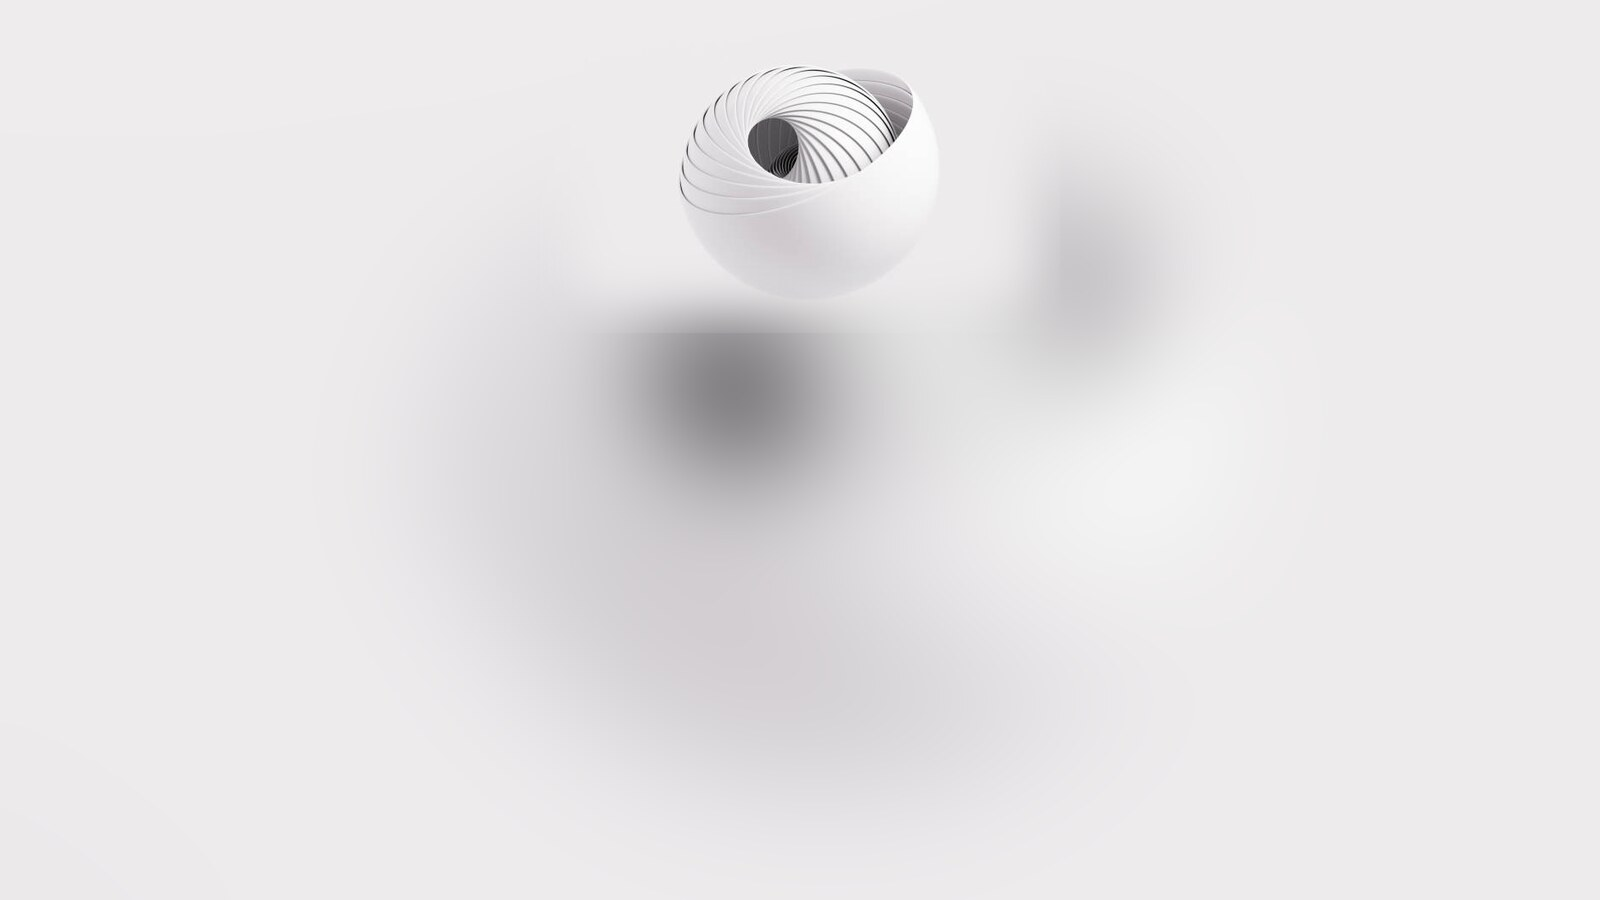
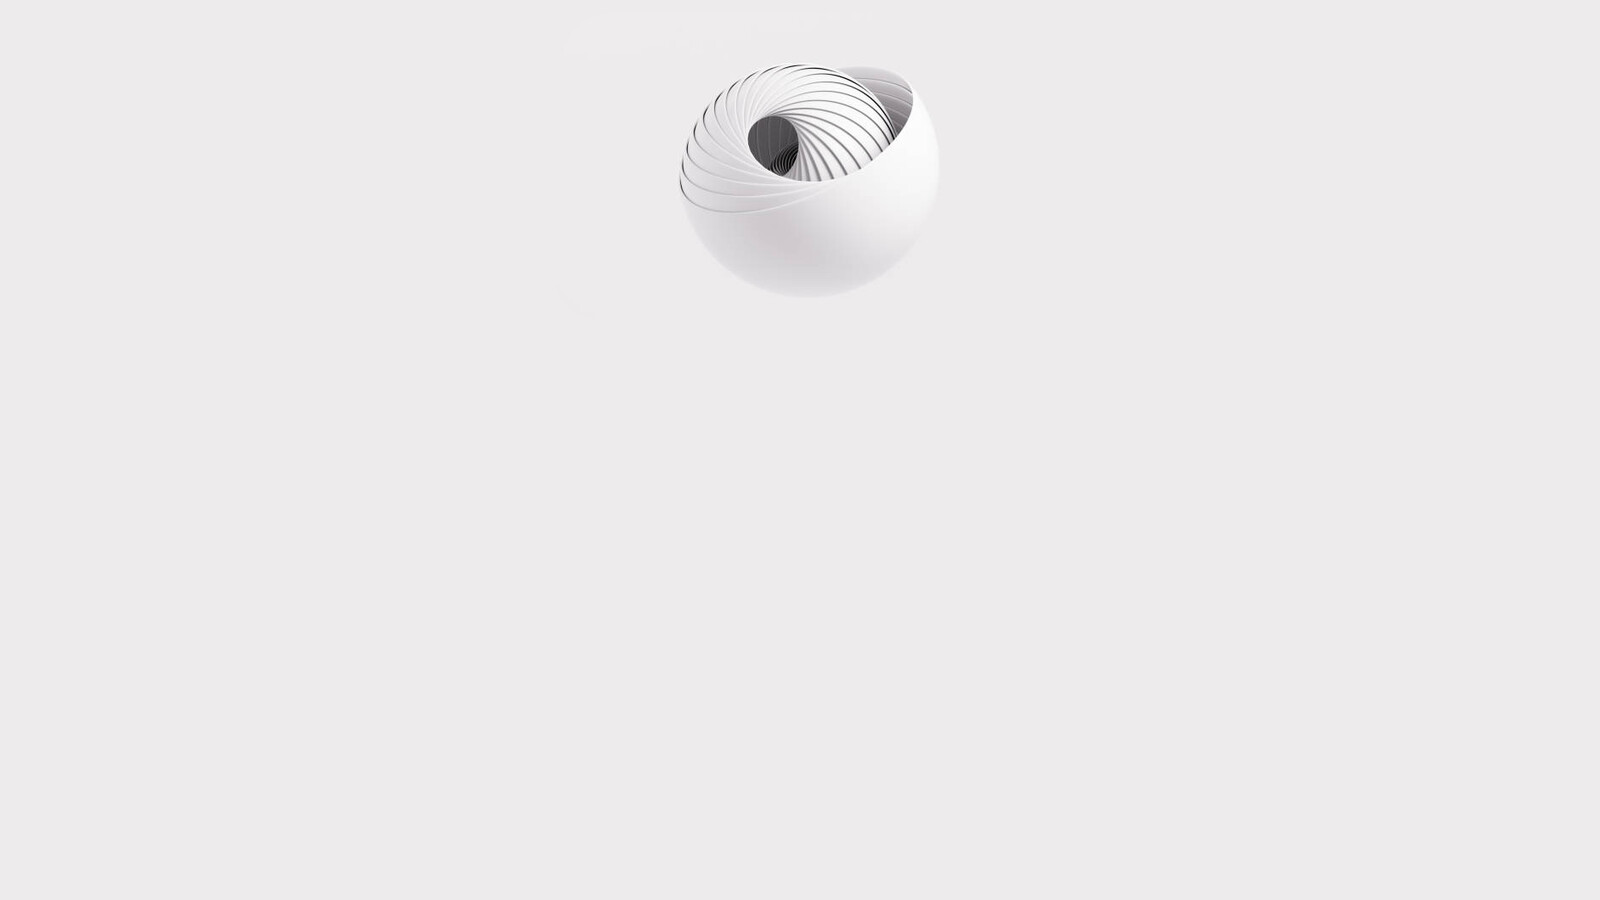
feat: hero — lockup a 560px y fusión de fondo sin costura
El lienzo extendido ahora usa fondo sólido del color exacto del fondo de la
foto (rgb 237,235,236) en vez de la versión difuminada, eliminando la línea
visible de unión y los fantasmas del blur.

Changed region(s): [[0.3438, 0.3111, 0.5625, 0.8089], [0.625, 0.2178, 0.7188, 0.4044], [0.4688, 0.0622, 0.5625, 0.2178]]

diff --git a/src/components/Hero.tsx b/src/components/Hero.tsx
@@ -58,8 +58,8 @@ export default function Hero({
             width={1813}
             height={892}
             priority
-            sizes="(min-width: 1024px) 500px, (min-width: 768px) 450px, 66vw"
-            className="w-[66vw] max-w-[500px] h-auto"
+            sizes="(min-width: 1024px) 560px, (min-width: 768px) 500px, 72vw"
+            className="w-[72vw] max-w-[560px] h-auto"
           />
 
           {/* Tagline */}
